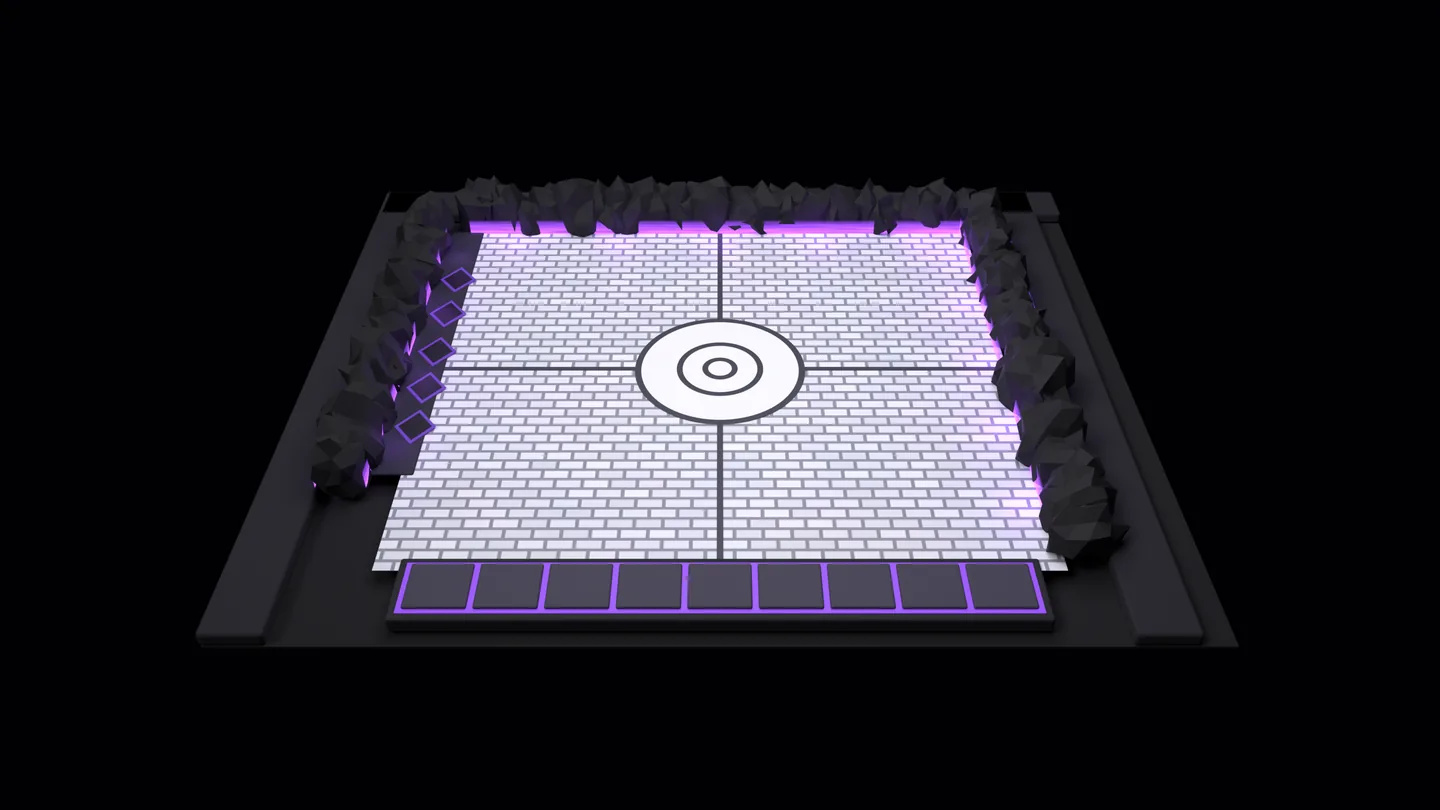
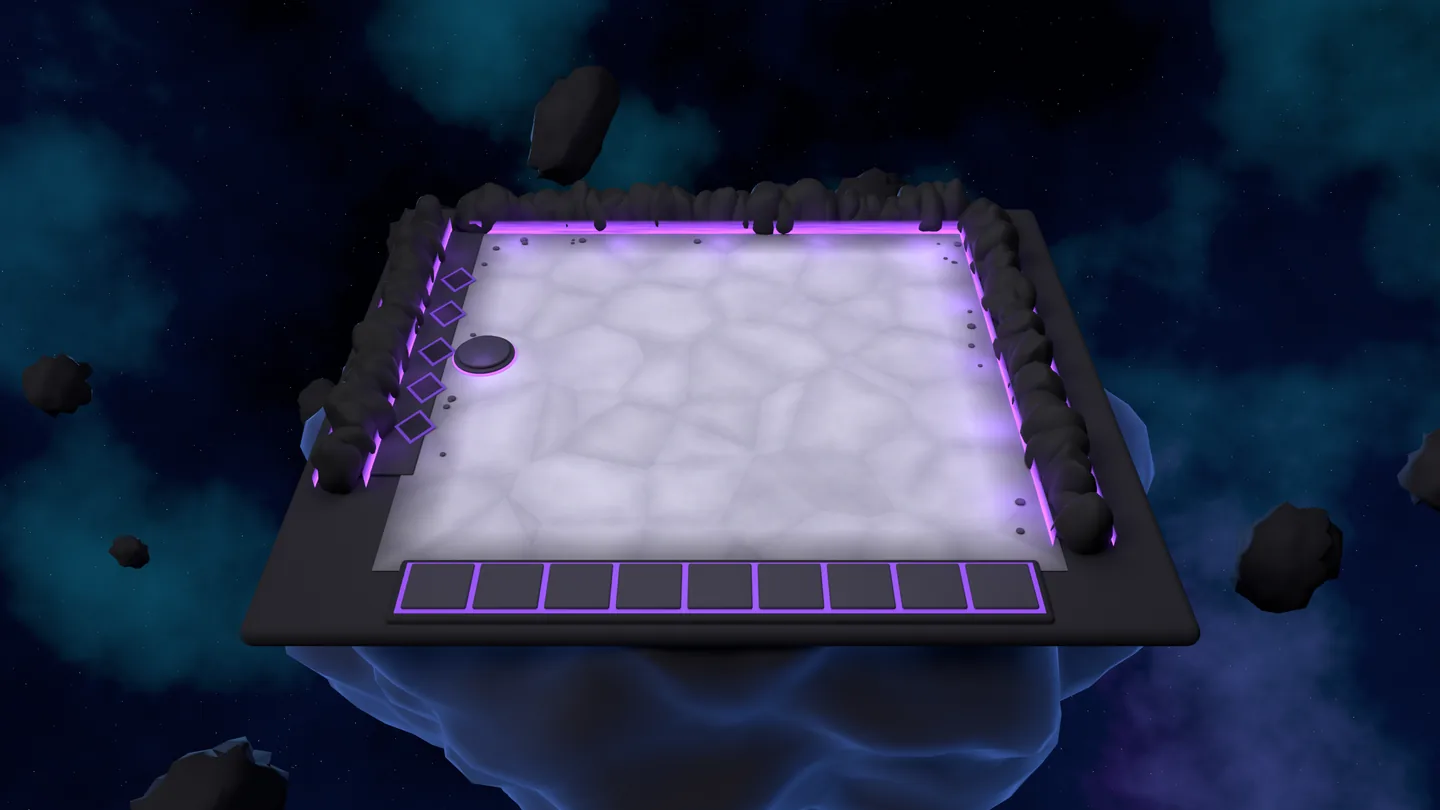
Coliseo: suelo limpio de losas suaves, arena flotando en el espacio, formas más suaves y trofeo sobre su pedestal

diff --git a/public/board3d.js b/public/board3d.js
@@ -162,7 +162,7 @@ const flatSeen=new Set(); function flatFail(e){ const k=String(e&&e.message||e);
 // «coliseo» es la arena de baldosas con piedras negras y brillo morado renderizada en Blender con la cámara del juego (arena-coliseo.py de la skill de recursos)
 const FLAT_SETS={
  rio:{dir:'arena/',w:1428,h:1080,back:[[424,272],[969,273]],bench:[353,1034.8,585],holes:[[397,315],[387,347],[377,382],[367,415],[357,450]],totem:{row:3,dx:1.3,dy:.25},bg:'radial-gradient(circle at 50% 40%,#5a5d63,#2e3036)'},
- coliseo:{dir:'arena/coliseo/',w:2880,h:1620,back:[[968,472.4],[1912,472.4]],bench:[805.6,2074.4,1168.8],holes:[[917,562.1],[896.2,630.2],[874.7,705.8],[853.1,778.2],[831,856.2]],totem:{row:3,dx:1.3,dy:.25},bg:'#000'},
+ coliseo:{dir:'arena/coliseo/',w:2880,h:1620,back:[[968,472.4],[1912,472.4]],bench:[805.6,2074.4,1168.8],holes:[[917,562.1],[896.2,630.2],[874.7,705.8],[853.1,778.2],[831,856.2]],totem:{row:3,dx:1.3,dy:.25},totemY:.22,bg:'#000'},
 };
 const FLAT_IMG=FLAT_SETS.coliseo; // totem: junto al borde izquierdo del tablero, a la altura de la fila `row`, `dx` radios de casilla hacia fuera y `dy` hacia abajo
 // Carrusel: plataforma Poké Ball sobre suelo rojo, renderizada en Blender con la misma perspectiva que la cámara del carrusel (carrusel-pokeball.py de la skill de recursos);
@@ -919,7 +919,7 @@ function buildProps(){
 }
 function stepProps(F,now){
  if(!totem) buildProps();
- const T=F.totem; totem.visible=!!T; if(T){ const G=board.G, tt=FLAT_IMG.totem, p=W3(G.ox+G.hw*(.5*(tt.row&1))+G.hw/2-tt.dx*G.R,G.pad+G.R+tt.row*1.5*G.R+tt.dy*G.R); totem.position.set(p.x,0,p.z); } // la ball se queda quieta
+ const T=F.totem; totem.visible=!!T; if(T){ const G=board.G, tt=FLAT_IMG.totem, p=W3(G.ox+G.hw*(.5*(tt.row&1))+G.hw/2-tt.dx*G.R,G.pad+G.R+tt.row*1.5*G.R+tt.dy*G.R); totem.position.set(p.x,FLAT_IMG.totemY||0,p.z); } // la ball se queda quieta
  const I=F.interest, flat=!!flatH;
  if(!I||!flat){ for(const c of crystals){ c.visible=false; if(c.userData.v!=null){ c.userData.v=0; c.userData.want=false; c.userData.from=null; } } return; } // carrusel y menú: sin intereses
  // Solo se ven los cristales ganados: cada uno brota de su hueco (sube, crece y se enciende en 0,7 s) al alcanzar ese interés y se hunde si se pierde

diff --git a/.claude/skills/pokemon-data-asset-pipeline/scripts/arena-coliseo.py b/.claude/skills/pokemon-data-asset-pipeline/scripts/arena-coliseo.py
@@ -37,36 +37,52 @@ def box(name, x0, x1, z0, z1, y0, y1, m, bevel=0.0):
     cx, cz, cy = (x0 + x1) / 2, (z0 + z1) / 2, (y0 + y1) / 2
     bpy.ops.mesh.primitive_cube_add(size=1, location=W(cx, cy, cz)); o = bpy.context.object; o.name = name
     o.scale = (x1 - x0, z1 - z0, y1 - y0); bpy.ops.object.transform_apply(scale=True); o.data.materials.append(m)
-    if bevel: bv = o.modifiers.new('bisel', 'BEVEL'); bv.width = bevel; bv.segments = 3
+    if bevel: bv = o.modifiers.new('bisel', 'BEVEL'); bv.width = bevel; bv.segments = 5; bv.limit_method = 'NONE'; bpy.ops.object.shade_smooth()
     return o
 
-# ---------- suelo de baldosas ----------
-mf = bpy.data.materials.new('baldosas'); mf.use_nodes = True; nt = mf.node_tree; bs = nt.nodes['Principled BSDF']
-br = nt.nodes.new('ShaderNodeTexBrick'); tc = nt.nodes.new('ShaderNodeTexCoord'); mp = nt.nodes.new('ShaderNodeMapping')
-mp.inputs['Scale'].default_value = (.8, .8, 1)  # ladrillos de ~0,62 × 0,31
-br.inputs['Color1'].default_value = (*lin(hexc('#e9e9ee')), 1); br.inputs['Color2'].default_value = (*lin(hexc('#d6d7de')), 1)
-br.inputs['Mortar'].default_value = (*lin(hexc('#8a8b96')), 1); br.inputs['Mortar Size'].default_value = .035; br.inputs['Scale'].default_value = 1
-nz = nt.nodes.new('ShaderNodeTexNoise'); nz.inputs['Scale'].default_value = 6; mix = nt.nodes.new('ShaderNodeMix'); mix.data_type = 'RGBA'; mix.blend_type = 'MULTIPLY'; mix.inputs['Factor'].default_value = .12
-nt.links.new(tc.outputs['Object'], mp.inputs['Vector']); nt.links.new(mp.outputs['Vector'], br.inputs['Vector']); nt.links.new(br.outputs['Color'], mix.inputs[6]); nt.links.new(nz.outputs['Color'], mix.inputs[7])
-nt.links.new(mix.outputs[2], bs.inputs['Base Color']); bs.inputs['Roughness'].default_value = .55
+# ---------- suelo: piedra clara con losas irregulares de bordes suaves (como el escenario de capas), sin líneas ni dibujos ----------
+mf = bpy.data.materials.new('suelo'); mf.use_nodes = True; nt = mf.node_tree; bs = nt.nodes['Principled BSDF']; N = nt.nodes.new; L = nt.links.new
+tc = N('ShaderNodeTexCoord')
+ve = N('ShaderNodeTexVoronoi'); ve.feature = 'DISTANCE_TO_EDGE'; ve.inputs['Scale'].default_value = .42; ve.inputs['Randomness'].default_value = .9
+vc = N('ShaderNodeTexVoronoi'); vc.inputs['Scale'].default_value = .42; vc.inputs['Randomness'].default_value = .9
+nz = N('ShaderNodeTexNoise'); nz.inputs['Scale'].default_value = .9; nz.inputs['Detail'].default_value = 6
+nf = N('ShaderNodeTexNoise'); nf.inputs['Scale'].default_value = 7; nf.inputs['Detail'].default_value = 3
+for n in (ve, vc, nz, nf): L(tc.outputs['Object'], n.inputs['Vector'])
+edge = N('ShaderNodeMapRange'); edge.inputs['From Min'].default_value = 0; edge.inputs['From Max'].default_value = .22; L(ve.outputs['Distance'], edge.inputs['Value'])  # 0 en la junta → 1 dentro de la losa
+cell = N('ShaderNodeSeparateColor'); L(vc.outputs['Color'], cell.inputs['Color'])
+tone = N('ShaderNodeMapRange'); tone.inputs['To Min'].default_value = .9; tone.inputs['To Max'].default_value = 1.05; L(cell.outputs['Red'], tone.inputs['Value'])
+ramp = N('ShaderNodeValToRGB'); ramp.color_ramp.elements[0].color = (*lin(hexc('#a7a3b8')), 1); ramp.color_ramp.elements[1].color = (*lin(hexc('#dcd9e6')), 1)
+mixv = N('ShaderNodeMath'); mixv.operation = 'MULTIPLY'; L(edge.outputs['Result'], mixv.inputs[0]); mixv.inputs[1].default_value = .55
+add = N('ShaderNodeMath'); add.operation = 'ADD'; L(mixv.outputs[0], add.inputs[0]); L(nz.outputs['Fac'], add.inputs[1])
+sc2 = N('ShaderNodeMath'); sc2.operation = 'MULTIPLY'; L(add.outputs[0], sc2.inputs[0]); sc2.inputs[1].default_value = .78; L(sc2.outputs[0], ramp.inputs['Fac'])
+mul = N('ShaderNodeMix'); mul.data_type = 'RGBA'; mul.blend_type = 'MULTIPLY'; mul.inputs['Factor'].default_value = 1; L(ramp.outputs['Color'], mul.inputs[6])
+tcol = N('ShaderNodeCombineColor')
+for k in ('Red', 'Green', 'Blue'): L(tone.outputs['Result'], tcol.inputs[k])
+L(tcol.outputs['Color'], mul.inputs[7])
+fine = N('ShaderNodeMix'); fine.data_type = 'RGBA'; fine.blend_type = 'OVERLAY'; fine.inputs['Factor'].default_value = .12; L(mul.outputs[2], fine.inputs[6]); L(nf.outputs['Color'], fine.inputs[7])
+L(fine.outputs[2], bs.inputs['Base Color']); bs.inputs['Roughness'].default_value = .7
+bump = N('ShaderNodeBump'); bump.inputs['Strength'].default_value = .35; bump.inputs['Distance'].default_value = .015; L(edge.outputs['Result'], bump.inputs['Height']); L(bump.outputs['Normal'], bs.inputs['Normal'])
 bpy.ops.mesh.primitive_plane_add(size=1, location=W(0, 0, (FZ0 + 5.75) / 2)); fl = bpy.context.object; fl.name = 'suelo'
 fl.scale = (FX1 - FX0 + .6, 5.75 - FZ0 + .3, 1); bpy.ops.object.transform_apply(scale=True); fl.data.materials.append(mf)
-
-# líneas oscuras: cruz y emblema de Poké Ball en el centro
-M_LINE = mat('linea', '#3b3c44', .6)
-box('linea_h', FX0 - .3, FX1 + .3, MID_Z - .07, MID_Z + .07, 0, .012, M_LINE)
-box('linea_v', -.07, .07, FZ0 - .2, 5.6, 0, .012, M_LINE)
-def ring(name, r0, r1, m, y=.014):
-    bpy.ops.mesh.primitive_circle_add(vertices=128, radius=r1, fill_type='NGON', location=W(0, y, MID_Z)); o = bpy.context.object; o.name = name; o.data.materials.append(m)
-    if r0 > 0:
-        bpy.ops.mesh.primitive_circle_add(vertices=128, radius=r0, fill_type='NGON', location=W(0, y + .001, MID_Z)); h = bpy.context.object
-        bo = o.modifiers.new('hueco', 'BOOLEAN'); h.scale.z = 1; bpy.ops.object.select_all(action='DESELECT')
-        # el hueco se hace con un cilindro fino (las booleanas necesitan volumen)
-        bpy.data.objects.remove(h); bpy.ops.mesh.primitive_cylinder_add(vertices=128, radius=r0, depth=.2, location=W(0, y, MID_Z)); h = bpy.context.object; h.hide_render = True; h.hide_viewport = True; bo.operation = 'DIFFERENCE'; bo.object = h
-    return o
-M_FLOOR_C = mat('suelo_centro', '#e4e4ea', .55)
-ring('aro_grande', 2.0, 2.16, M_LINE); ring('fondo_aro', 0, 2.0, M_FLOOR_C, .013)
-ring('aro_medio', .95, 1.1, M_LINE, .016); ring('aro_chico', 0, .45, M_LINE, .017); ring('punto', 0, .3, M_FLOOR_C, .018)
+# sombra suave junto a los bordes del campo (oclusión pintada): un marco negro que se difumina hacia dentro
+M_AO = bpy.data.materials.new('oclusion'); M_AO.use_nodes = True; an = M_AO.node_tree; ab = an.nodes['Principled BSDF']; ab.inputs['Base Color'].default_value = (0, 0, 0, 1)
+ag = an.nodes.new('ShaderNodeTexCoord'); asep = an.nodes.new('ShaderNodeSeparateXYZ'); an.links.new(ag.outputs['Generated'], asep.inputs[0])
+def dist_edge(c):  # 0 en el borde → 0,5 en el centro
+    m1 = an.nodes.new('ShaderNodeMath'); m1.operation = 'MINIMUM'; an.links.new(c, m1.inputs[0])
+    m2 = an.nodes.new('ShaderNodeMath'); m2.operation = 'SUBTRACT'; m2.inputs[0].default_value = 1; an.links.new(c, m2.inputs[1]); an.links.new(m2.outputs[0], m1.inputs[1]); return m1
+mx = dist_edge(asep.outputs['X']); my = dist_edge(asep.outputs['Y']); mm = an.nodes.new('ShaderNodeMath'); mm.operation = 'MINIMUM'; an.links.new(mx.outputs[0], mm.inputs[0]); an.links.new(my.outputs[0], mm.inputs[1])
+ar2 = an.nodes.new('ShaderNodeMapRange'); ar2.inputs['From Max'].default_value = .09; ar2.inputs['To Min'].default_value = .55; ar2.inputs['To Max'].default_value = 0
+an.links.new(mm.outputs[0], ar2.inputs['Value']); an.links.new(ar2.outputs['Result'], ab.inputs['Alpha'])
+bpy.ops.mesh.primitive_plane_add(size=1, location=W(0, .004, (FZ0 + 5.75) / 2)); ao = bpy.context.object; ao.scale = (FX1 - FX0 + .6, 5.75 - FZ0 + .3, 1); bpy.ops.object.transform_apply(scale=True); ao.data.materials.append(M_AO)
+# piedrecitas sueltas junto a los bordes, para que el campo no se vea vacío (lejos de los rombos y del centro)
+M_PEB = mat('piedrecita', '#4a4656', .8)
+for k in range(26):
+    side = k % 3; t = rnd.random()
+    if side == 0: x, z = FX0 + (FX1 - FX0) * t, FZ0 + rnd.uniform(.15, .5)
+    elif side == 1: x, z = FX1 - rnd.uniform(.15, .5), FZ0 + (5.0 - FZ0) * t
+    else: x, z = FX0 + rnd.uniform(.25, .6), FZ0 + (2.6 - FZ0) * t
+    r = rnd.uniform(.05, .12); bpy.ops.mesh.primitive_ico_sphere_add(subdivisions=2, radius=r, location=W(x, r * .35, z)); p = bpy.context.object
+    p.scale = (1, rnd.uniform(.7, 1), .55); p.data.materials.append(M_PEB); bpy.ops.object.shade_smooth()
 
 # ---------- piedras negras con brillo morado (detrás y a la derecha; a la izquierda, por fuera de la repisa) ----------
 M_ROCK = mat('roca', '#0e0d12', .8)
@@ -78,7 +94,7 @@ g.links.new(gc.outputs['Generated'], sep.inputs[0]); g.links.new(sep.outputs['Y'
 def rock(x, z, s, h):
     bpy.ops.mesh.primitive_ico_sphere_add(subdivisions=2, radius=1, location=W(x, h * .45, z)); o = bpy.context.object
     for v in o.data.vertices: v.co *= 1 + rnd.uniform(-.3, .3); v.co.z = max(v.co.z, -.55)
-    o.data.polygons.foreach_set('use_smooth', [False] * len(o.data.polygons))
+    sd = o.modifiers.new('suave', 'SUBSURF'); sd.levels = sd.render_levels = 1; bpy.ops.object.shade_smooth()
     o.scale = (s * rnd.uniform(.85, 1.15), s * rnd.uniform(.7, 1.0), h); o.rotation_euler = (rnd.uniform(-.12, .12), rnd.uniform(-.12, .12), rnd.uniform(0, math.tau))
     o.data.materials.append(M_ROCK); return o
 def flame(x0, z0, x1, z1, h=.55):
@@ -107,25 +123,74 @@ box('repisa', -8.05, FX0 - .02, RB + .55, 3.0, -.05, .04, M_LEDGE, .04)
 for (hx, hz) in HOLES:
     for (r, m, y) in ((.62, M_SOCKR, .045), (.5, M_SOCK, .05)):
         bpy.ops.mesh.primitive_cylinder_add(vertices=4, radius=r, depth=.02, location=W(hx, y, hz)); o = bpy.context.object; o.data.materials.append(m)
+        bv = o.modifiers.new('bisel', 'BEVEL'); bv.width = .06; bv.segments = 4; bv.affect = 'VERTICES'  # rombos con las puntas redondeadas
         o.scale = (.8, 1, 1)  # rombo un poco más alto que ancho (en perspectiva queda como el del modelo)
 
 # ---------- banca (9 losas) sobre una base de piedra negra; sin piedras levantadas delante ----------
 M_BASE = mat('base_banca', '#1d1c23', .85); M_SLAB = mat('losa', '#3a3846', .75); M_SEAM = mat('junta', '#120f18', .5, '#9b4dff', .9)
-box('base_banca', BENCH_X - .95, -BENCH_X + .95, 5.62, 7.3, -.3, .1, M_BASE, .06)
+box('base_banca', BENCH_X - .95, -BENCH_X + .95, 5.62, 7.3, -.3, .1, M_BASE, .12)
 box('junta_banca', BENCH_X - .78, -BENCH_X + .78, 5.78, 7.13, .1, .115, M_SEAM)
 for i in range(9):
     x = BENCH_X + BENCH_DX * i; box(f'losa{i}', x - .66, x + .66, BENCH_Z - .6, BENCH_Z + .6, .1, TOP, M_SLAB, .05)
 
-# ---------- borde exterior de piedra oscura (el «segundo círculo»), y nada más allá ----------
-M_RIM = mat('borde', '#1f1e25', .9)
-box('borde_atras', -10.4, 10.4, RB - 1.9, RB - .55, -.35, .0, M_RIM, .08)
-box('borde_der', RR + .55, RR + 1.9, RB - 1.9, 7.6, -.35, .0, M_RIM, .08)
-box('borde_izq', RL - 1.9, RL - .55, RB - 1.9, 7.6, -.35, .0, M_RIM, .08)
-box('suelo_piedras', -10.4, 10.4, RB - 1.9, 7.6, -.42, -.36, mat('fondo_piedras', '#0e0d12', .95))
+# ---------- isla flotante: borde de piedra oscura redondeado y, debajo, la roca que cuelga ----------
+M_RIM = mat('borde', '#1f1e26', .85)
+box('borde', -9.7, 9.7, RB - 1.05, 7.55, -.6, -.03, M_RIM, .5)  # justo por debajo del suelo (si coinciden, el borde lo tapa)
+M_ISLA = mat('isla', '#1c1924', .9)
+# contorno azulado según el ángulo (Fresnel): la roca de debajo se lee contra el espacio
+in_ = M_ISLA.node_tree; ib = in_.nodes['Principled BSDF']; lw = in_.nodes.new('ShaderNodeLayerWeight'); lw.inputs['Blend'].default_value = .18; ir = in_.nodes.new('ShaderNodeMath'); ir.operation = 'MULTIPLY'; ir.inputs[1].default_value = .5
+in_.links.new(lw.outputs['Facing'], ir.inputs[0]); ib.inputs['Emission Color'].default_value = (*lin(hexc('#5b8cff')), 1); in_.links.new(ir.outputs[0], ib.inputs['Emission Strength'])
+# roca que cuelga bajo la arena: esfera achatada con el centro bajo, cortada arriba (queda escondida bajo el borde) y más ancha por debajo, con relieve
+from mathutils import noise
+bpy.ops.mesh.primitive_ico_sphere_add(subdivisions=5, radius=1, location=W(0, -4.6, -1.0)); isla = bpy.context.object; isla.name = 'isla'
+for v in isla.data.vertices:
+    c = v.co
+    if c.z > .61: c.z = .61
+    else:
+        n = noise.noise(Vector((c.x * 2.3, c.y * 2.3, c.z * 2.3))) + .5 * noise.noise(Vector((c.x * 6, c.y * 6, c.z * 6)))
+        c.x *= 1 + .16 * n; c.y *= 1 + .16 * n; c.z *= 1 + .35 * noise.noise(Vector((c.x * 4, c.y * 4, 1.7)))
+isla.scale = (11.2, 9.9, 6.5); bpy.ops.object.transform_apply(scale=True); isla.data.materials.append(M_ISLA); bpy.ops.object.shade_smooth()
+# rocas flotando alrededor y por debajo, a varias distancias (profundidad), lisas y oscuras; el contraluz azul les recorta el borde
+M_FL = mat('roca_flotante', '#1b1922', .85)
+for k in range(22):
+    ang = rnd.uniform(0, math.tau); d = rnd.uniform(13, 30); x = math.cos(ang) * d * 1.25; z = math.sin(ang) * d * .9 - 2; y = rnd.uniform(-14, -2)
+    if z > 9 and y > -6: continue  # delante y arriba taparía la banca
+    r = rnd.uniform(.5, 2.4) * (1 + (d - 13) / 30); bpy.ops.mesh.primitive_ico_sphere_add(subdivisions=3, radius=r, location=W(x, y, z)); o = bpy.context.object
+    for v in o.data.vertices: v.co *= 1 + rnd.uniform(-.18, .18)
+    o.scale = (1, rnd.uniform(.7, 1.1), rnd.uniform(.6, .9)); o.rotation_euler = (rnd.uniform(0, 3), rnd.uniform(0, 3), rnd.uniform(0, 3)); o.data.materials.append(M_FL); bpy.ops.object.shade_smooth()
+
+# ---------- pedestal del trofeo (el trofeo del juego se apoya en su cara: FLAT_SETS.coliseo.totemY = TH) ----------
+TX, TZT, TH = -6.063, -1.426, .22
+M_PED = mat('pedestal', '#2a2833', .7); M_PEDT = mat('pedestal_cara', '#3a3747', .6); M_PEDG = mat('pedestal_brillo', '#120f18', .5, '#9b4dff', 2.5)
+for (r, y0, y1, m) in ((.82, 0, .06, M_PEDG), (.78, 0, .12, M_PED), (.66, .12, TH, M_PEDT)):
+    bpy.ops.mesh.primitive_cylinder_add(vertices=64, radius=r, depth=y1 - y0, location=W(TX, (y0 + y1) / 2, TZT)); o = bpy.context.object; o.data.materials.append(m)
+    bv = o.modifiers.new('bisel', 'BEVEL'); bv.width = .03; bv.segments = 4; bpy.ops.object.shade_smooth()
+bpy.ops.object.light_add(type='POINT', location=W(TX, .5, TZT + .4)); lt = bpy.context.object; lt.data.color = lin(hexc('#b07bff')); lt.data.energy = 25; lt.data.shadow_soft_size = .5
 
 # ---------- luz: sin lámpara visible; luz suave de arriba y algo de ambiente frío ----------
-wd = bpy.data.worlds.new('mundo'); sc.world = wd; wd.use_nodes = True; bgn = wd.node_tree.nodes['Background']; bgn.inputs['Color'].default_value = (*lin(hexc('#0a0a10')), 1); bgn.inputs['Strength'].default_value = .5
-bpy.ops.object.light_add(type='AREA', location=W(0, 16, -1)); ar = bpy.context.object; ar.data.energy = 3800; ar.data.size = 18; ar.data.color = lin(hexc('#f2f0ff'))
+wd = bpy.data.worlds.new('espacio'); sc.world = wd; wd.use_nodes = True; wn = wd.node_tree; bgn = wn.nodes['Background']; WN = wn.nodes.new; WL = wn.links.new
+# espacio: nebulosa azul marino con vetas moradas y turquesa (contrasta con el blanco y morado de la arena) y estrellas
+wt = WN('ShaderNodeTexCoord')
+neb = WN('ShaderNodeTexNoise'); neb.inputs['Scale'].default_value = 1.6; neb.inputs['Detail'].default_value = 8; neb.inputs['Roughness'].default_value = .62; WL(wt.outputs['Generated'], neb.inputs['Vector'])
+neb2 = WN('ShaderNodeTexNoise'); neb2.inputs['Scale'].default_value = 3.2; neb2.inputs['Detail'].default_value = 6; WL(wt.outputs['Generated'], neb2.inputs['Vector'])
+nr = WN('ShaderNodeValToRGB'); E = nr.color_ramp.elements; E[0].position = .38; E[0].color = (*lin(hexc('#03050d')), 1); E[1].position = .78; E[1].color = (*lin(hexc('#1d3f7a')), 1)
+e2 = nr.color_ramp.elements.new(.6); e2.color = (*lin(hexc('#0d1838')), 1); e3 = nr.color_ramp.elements.new(.7); e3.color = (*lin(hexc('#3a1f6e')), 1)
+WL(neb.outputs['Fac'], nr.inputs['Fac'])
+nr2 = WN('ShaderNodeValToRGB'); nr2.color_ramp.elements[0].position = .55; nr2.color_ramp.elements[0].color = (0, 0, 0, 1); nr2.color_ramp.elements[1].position = .85; nr2.color_ramp.elements[1].color = (*lin(hexc('#1a7f9a')), 1); WL(neb2.outputs['Fac'], nr2.inputs['Fac'])
+addc = WN('ShaderNodeMix'); addc.data_type = 'RGBA'; addc.blend_type = 'ADD'; addc.inputs['Factor'].default_value = .5; WL(nr.outputs['Color'], addc.inputs[6]); WL(nr2.outputs['Color'], addc.inputs[7])
+st = WN('ShaderNodeTexVoronoi'); st.inputs['Scale'].default_value = 180; WL(wt.outputs['Generated'], st.inputs['Vector'])
+sr = WN('ShaderNodeMapRange'); sr.inputs['From Min'].default_value = 0; sr.inputs['From Max'].default_value = .055; sr.inputs['To Min'].default_value = 1; sr.inputs['To Max'].default_value = 0; WL(st.outputs['Distance'], sr.inputs['Value'])
+sp = WN('ShaderNodeMath'); sp.operation = 'POWER'; sp.inputs[1].default_value = 3; WL(sr.outputs['Result'], sp.inputs[0])
+sel = WN('ShaderNodeSeparateColor'); WL(st.outputs['Color'], sel.inputs['Color'])
+sk = WN('ShaderNodeMath'); sk.operation = 'MULTIPLY'; WL(sp.outputs[0], sk.inputs[0]); WL(sel.outputs['Red'], sk.inputs[1])  # no todas las celdas tienen una estrella brillante
+sw = WN('ShaderNodeMix'); sw.data_type = 'RGBA'; sw.blend_type = 'ADD'; WL(sk.outputs[0], sw.inputs['Factor']); WL(addc.outputs[2], sw.inputs[6]); sw.inputs[7].default_value = (3.2, 3.2, 3.6, 1)
+WL(sw.outputs[2], bgn.inputs['Color']); bgn.inputs['Strength'].default_value = 1.0
+# la nebulosa solo se ve de fondo: para iluminar la escena, un ambiente azul oscuro tenue
+lp = WN('ShaderNodeLightPath'); mixw = WN('ShaderNodeMixShader'); dark = WN('ShaderNodeBackground'); dark.inputs['Color'].default_value = (*lin(hexc('#1a1d2e')), 1); dark.inputs['Strength'].default_value = .6
+WL(lp.outputs['Is Camera Ray'], mixw.inputs['Fac']); WL(dark.outputs['Background'], mixw.inputs[1]); WL(bgn.outputs['Background'], mixw.inputs[2]); WL(mixw.outputs['Shader'], wn.nodes['World Output'].inputs['Surface'])
+bpy.ops.object.light_add(type='SUN', rotation=(math.radians(-115), 0, math.radians(20))); rim = bpy.context.object; rim.data.energy = 2.2; rim.data.color = lin(hexc('#6fa8ff'))
+bpy.ops.object.light_add(type='AREA', location=W(0, -9, 20)); fr = bpy.context.object; fr.rotation_euler = (math.radians(-60), 0, 0); fr.data.energy = 3500; fr.data.size = 25; fr.data.color = lin(hexc('#7fb6ff'))  # luz fría desde delante y abajo: se ve la roca que cuelga bajo la arena  # contraluz azul desde abajo: recorta la isla y las rocas
+bpy.ops.object.light_add(type='AREA', location=W(0, 16, -1)); ar = bpy.context.object; ar.data.energy = 2500; ar.data.size = 18; ar.data.color = lin(hexc('#f2f0ff'))
 bpy.ops.object.light_add(type='SUN', rotation=(math.radians(35), math.radians(-25), math.radians(-35))); sn = bpy.context.object; sn.data.energy = 1.3; sn.data.angle = math.radians(20)
 
 # ---------- cámara del juego, con el encuadre ampliado ----------

diff --git a/CLAUDE.md b/CLAUDE.md
@@ -175,7 +175,7 @@ El detalle, con los nombres de las funciones, está en la skill `autochess-syste
 - Sonidos: los propios se sintetizan con WebAudio en `Music` (`hurry`, `xp`, `drop` y `evolve` para las evoluciones de fichas y minileyendas); los grabados se cargan en caliente con `Music.sample`: gritos al comprar el primer ejemplar (Showdown `audio/cries/<nombre>.mp3`, con PokeAPI/cries de reserva) y la Poké Ball de PokeMiners/pogo_assets (`SFX`).
 - Rendimiento del 3D: los Pokémon no proyectan sombra real (llevan la sombra suave `blob`); la sombra del escenario es estática (`shadowMap.autoUpdate=false`, se rehace con `needsUpdate` al cambiar de arena, encuadre o calidad); la resolución máxima es 1,5 píxeles por píxel CSS; three.js se carga minificado; `B3.dropQueue()` (en `newGame`) descarta los modelos del menú que aún esperaban. `bakeStatic` junta lo estático de cada arena en una sola malla (lo animado lleva `userData.dyn`); `B3.info` da llamadas de dibujo, triángulos y ms por parte. Las fichas quietas (`still`) no giran y un salto grande cuenta como teletransporte. En combate, `unitXY` interpola con `drawSub` (solo dibujo; no toca la simulación).
 - Sinergias en planificación: `synFx` (partículas por tipo y anillo por clase; el Guardián ya no lleva un escudo fijo: al colocar una ficha que comparte la sinergia sale un escudo de cristal translúcido —se ve la ficha a través, sin Poké Ball— que flota y se desvanece en 1,7 s, `guardShield`; el **Coloso** suelta igual un campo de fuerza esférico alrededor de la ficha, del tamaño de su modelo, `colossusBubble`; las dos son imágenes propias y ligeras, `public/img/fx/escudo.webp` (17 KB) y `burbuja.webp` (13 KB), dibujadas con `efectos-sinergia.js` de la skill de recursos, un sprite cada una; `B3.fxSyn` las cuenta para las pruebas) y `stepLinks` (bandas entre los Coloso) en `board3d.js`; los datos salen de `activeTraits` y `sceneLinks` en `game.js`.
-- **Escenario «coliseo»** (el que se usa ahora; `FLAT_SETS.coliseo` en `board3d.js`, archivos en `public/arena/coliseo/`): una sola imagen (2880×1620, 81 KB; 44 KB la versión 1×) renderizada en Blender con la cámara del tablero (`arena-coliseo.py` de la skill de recursos: elevación 40°, distancia 28,5, fov 30° y encuadre ×1,3) en las coordenadas del mundo del juego: suelo de baldosas blancas con la cruz y el emblema de Poké Ball, piedras negras con brillo morado detrás y a los lados, a la izquierda una repisa con los 5 rombos de los cristales de intereses, delante la banca de 9 losas de piedra oscura (sin piedras levantadas) y un borde oscuro; fuera, negro (sin gradas ni lámpara). Sin vídeos ni fuegos (`capas.json` vacío). El script da los puntos de `FLAT_IMG` (`back`, `bench`, `holes`); el encaje sale casi una escala pura porque la perspectiva es la misma. El escenario de capas de antes sigue en `FLAT_SETS.rio`. El contenedor del escenario es `#flatBg`.
+- **Escenario «coliseo»** (el que se usa ahora; `FLAT_SETS.coliseo` en `board3d.js`, archivos en `public/arena/coliseo/`): una sola imagen (2880×1620, 80 KB; 34 KB la versión 1×) renderizada en Blender con la cámara del tablero (`arena-coliseo.py` de la skill de recursos: elevación 40°, distancia 28,5, fov 30° y encuadre ×1,3) en las coordenadas del mundo del juego: suelo limpio de piedra clara con losas irregulares de bordes suaves (sin líneas ni dibujos, como el escenario de capas) y sombra suave en los bordes, piedras negras redondeadas con brillo morado detrás y a los lados, a la izquierda una repisa con los 5 rombos de los cristales de intereses, un pedestal de piedra donde se apoya el trofeo (`totemY` = 0,22: el sprite del trofeo sube a su cara), delante la banca de 9 losas de piedra oscura (sin piedras levantadas) y un borde oscuro redondeado; todo flota en el espacio (nebulosa azul con vetas moradas y turquesa y estrellas), con una roca que cuelga bajo la arena (contorno azulado por Fresnel) y rocas flotando a varias distancias. Sin vídeos ni fuegos (`capas.json` vacío). El script da los puntos de `FLAT_IMG` (`back`, `bench`, `holes`); el encaje sale casi una escala pura porque la perspectiva es la misma. El escenario de capas de antes sigue en `FLAT_SETS.rio`. El contenedor del escenario es `#flatBg`.
 - **Escenario del tablero por capas** (el único del tablero; `FLAT` en `board3d.js`; archivos en `public/arena/`, del paquete de capas `arena_tft_capas_1080` que aportó el autor del proyecto, servidos siempre por nuestro servidor): detrás del lienzo transparente va un fondo WebP a 2× sin el gris (recortado del máster 4K), tres vídeos de agua en bucle recortados con `mask-image` y cuatro fuegos por tira de sprites, con sus posiciones leídas de `capas.json`. Todo el contenedor (1428×1080) se deforma con una homografía (`matrix3d`) ajustada por mínimos cuadrados a las dos esquinas del fondo del campo y al centro de las 9 losas del banquillo (`FLAT_IMG`, `stepFlat`); `flatWorld` convierte un punto de la imagen en un punto del suelo 3D (cristales en los huecos; la torre de aumentos va aparte, junto al borde izquierdo a la altura de la fila 3, `FLAT_IMG.totem`). Los vídeos y fuegos se pausan al ocultar la pestaña o el escenario (`flatPlay`).
 - Espectador: minimapa 3×3 abajo a la derecha (`renderIslands`, transición `warp`; un clic lleva al tablero o combate de ese jugador; necesita `pointer-events:auto` porque la capa del campo completo los anula, y se oculta al acabar la partida o volver al menú); al mirar a otro, el inventario y el tótem muestran sus objetos y aumentos (`viewOwner`; viajan en `pub.bd`).
 - **Cartas de aumento** (`showAugment`, `augCardHTML`, CSS `.augCard3`): fondo negro con marco dorado propio en SVG (`public/img/aug-marco.svg`: doble marco, esquinas recortadas con Poké Balls y emblema arriba), igual para las tres rarezas; la rareza la da el icono, que es el del aumento convertido en silueta del color de su rareza (plata, oro o degradado prismático) conservando sus detalles por la luminosidad (`augSil`, en un lienzo, una vez por aumento; los de Pokémon usan su ilustración oficial de PokeAPI para que la silueta salga suave, con el sprite de respaldo). Título en serif y descripción centrada: `fitAugCard` reduce la letra hasta que caben (comprobado con los 224: título ≥ 19 px, descripción ≥ 12 px). Sin animación de apertura de Poké Ball. Sobre el trofeo (`drawTotemIcons`) cada aumento va en un recuadro negro con marco negro, como los objetos sobre un Pokémon, con la misma silueta de su carta (`augSilImg`).
